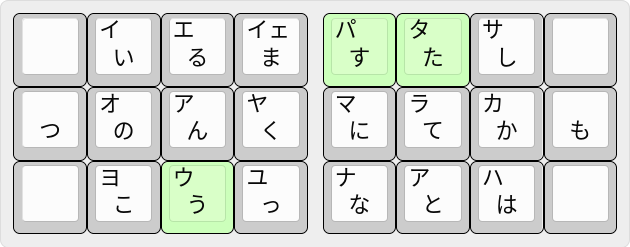
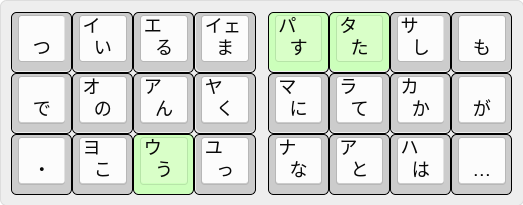
tyoki-chord 2nd version

diff --git a/layouts/_default/summary.html b/layouts/_default/summary.html
@@ -1,3 +1,4 @@
+{{ if not .Params.nolist }}
 <li>
 	{{ partial "list-breadcrumb.html" . }}
 	<h3><a href="{{ .RelPermalink }}">{{ .Title }}</a></h3>
@@ -12,3 +13,4 @@
 		{{ .Summary }}
 	{{ end }}
 </li>
+{{ end }}

diff --git a/layouts/_default/summary-in-leaf.html b/layouts/_default/summary-in-leaf.html
@@ -1,3 +1,4 @@
+{{ if not .Params.nolist }}
 <li>
 	<h3><a href="{{ .RelPermalink }}">{{ .Title }}</a></h3>
 	<p class="date">
@@ -11,3 +12,4 @@
 		{{ .Summary }}
 	{{ end }}
 </li>
+{{ end }}

diff --git a/content/computer/keyboard/layout/tyoki-chord.md b/content/computer/keyboard/layout/tyoki-chord.md
@@ -6,6 +6,7 @@ description = """
 date = 2020-10-09T16:36:02+09:00
 toc = true
 weight = 1
+lastmod = 2021-01-04T22:30:22+09:00
 +++
 <!--more-->
 
@@ -15,11 +16,11 @@ weight = 1
 よく打つかなは単打なので打鍵効率がよい。\
 そうでないかなは行段を組み合わせるので覚えやすく忘れにくい。\
 9割以上の入力を人差し指と中指で打つため疲れにくい。\
-小指を使わない。薬指を使わない選択もできる。
+小指を使わない。薬指もあまり使わない。
 
 濁音や外来音も法則性があり、覚えやすく忘れにくい。\
-濁音は中指で対応する段(母音)、人差し指でその隣のキーを同時押し。\
-外来音は中指で対応する行(子音)、人差し指でその隣のキーを同時押し。
+濁音は中指で対応する行(子音)、人差し指でその隣のキーを同時押し。\
+外来音は中指で対応する段(母音)、人差し指でその隣のキーを同時押し。
 
 拗音と外来音を1動作で打ててリズムがいい。
 
@@ -27,7 +28,7 @@ weight = 1
 
 よく出てくる二重母音は連続で打ちやすいように配置した。
 
-親指を文字入力に使わないので親指シフト系列の配列だと親指が痛くなる人にもおすすめ。
+親指を文字入力に使わないので親指シフト系の配列だと親指が痛くなる人にもおすすめ。
 
 ## 打鍵動画
 {{< youtube 3PRpr1XbUc0 >}}
@@ -81,8 +82,8 @@ weight = 1
 
 <div class="columns-2">
 <figure class="column">
-<figcaption>「で」</figcaption>
-<img src="de.png" />
+<figcaption>「だ」</figcaption>
+<img src="da.png" />
 </figure>
 <figure class="column">
 <figcaption>「ば」</figcaption>
@@ -130,11 +131,11 @@ PageUp/Downキーで変換候補のページ移動。\
 カタカナキーでカタカナに変換して確定。\
 句読点のあと変換せずに確定。
 
-かなの入力中以外は基本的にキーそのままを入力する。\
-かなの入力中以外でひらがなキーやカタカナキーを押すと、かな直接入力モードを切り替える。かな直接入力モードではひらがなやカタカナを確定された状態で入力する。かなに関する表を作るときなどに役に立つ。
+変換候補の表示中以外、上に挙げたキーは基本的にキーそのままを入力する。\
+変換候補の表示中以外でひらがなキーやカタカナキーを押すと、かな直接入力モードを切り替える。かな直接入力モードではひらがなやカタカナを確定された状態で入力する。かなに関する表を作るときなどに役に立つ。
 
 IMEの状態に合わせてキーボードの通知LEDを光らせることでIMEの状態が分からなくなることを防ぐ。\
-モーダルエディタ(Vimなど)と連携してIMEの自動切り替え。
+モーダルエディタ(Vimなど)と連携してIMEを自動で切り替える。
 
 ## アルファベット
 {{< figure src="tyoki.png" class="full" >}}
@@ -146,31 +147,56 @@ IMEの状態に合わせてキーボードの通知LEDを光らせることでIM
 
 アルファベットは26音。小指を使わない3段4列を両手で24キー。キーが足りない。数字はあまり使わないので端に追いやって、空いた最上段を利用する。はみ出たZQと記号、よく使う機能キーが候補。
 
-## 機能キー、数字
+## 数字、記号
+かな入力中の記号は英数入力に準ずる。\
+単打面にない記号は数字記号レイヤー(Enterを押しながら)にある。
+
+{{< figure src="num-sign.png" class="full" >}}
+
+シフトとレイヤーに記号が散らばっていると混乱するのでシフトで入力できるものもレイヤー側に用意してレイヤー側で入力するようにしている。
+
+レイヤーキーを押している手と同じ側で入力するのは難しく、レイヤーキーを左右切り替えながら入力するのも難しいので連続することが多い記号は同じ側にまとめている。
+
+- 同じ種類のかっこは人差し指と中指のアルペジオになるようにした
+- 「[, ]」は配列の添字として数字と一緒に使うことが多いので数字側
+- プログラミング言語で「=」と組み合わされることが多い記号を同じ側にまとめた
+
+覚えやすさのために関連性のあるものを近くにまとめている。
+
+- 「$, #, %」は数字と強い関連があるので数字側にまとめた
+- 「=, +, *」は算術演算子
+- 記号側の中段と下段は論理演算やビット演算
+- 「^, <, >」は形が似ている
+- 「!, ?, :, `」は句読点つながり
+- 「\\, `」はバックなんとか
+
+## 機能キー
 最上段と親指のキーの一部は修飾キーと役割を兼ねている。長押しすると各キー右上に書かれている修飾キーとなり、すぐ離すと各キー下に書かれたキーが押されたことになる。
 
-小指の2列(カーソル、数字など)と最下段の薬指(3と6)はホームポジションごと動かして人差し指と中指で打つ。これらの位置には、使うときには連続して使うことが多く、文字と行ったり来たりすることが少ないキーを置いている。レイヤーに高頻度のキーを置かないことに繋がり、親指の負担軽減になる。
+小指の2列(カーソルキー、マウスキーなど)はホームポジションごと動かして人差し指と中指で打つ。これらの位置には、使うときには連続して使うことが多く、文字と行ったり来たりすることが少ないキーを置いている。レイヤーに高頻度のキーを置かないことに繋がり、親指の負担軽減になる。
 
 BSとDelは長押しすることがあるので修飾キーと併用できない、連打することが多いので人差し指で打ちたい、カーソルキーと同時に使うことが多いのでその反対の手がいい、ということであの場所。
 
-左上の4つのキーはマウスのスクロール。\
-左親指の右上3つのキーはマウスのクリック。親指だと打ちにくいのでホームポジションごと動かして人差し指と中指で打つ。\
-マウスをクリックしたりスクロールすると手の甲が痛いので用意している。
+左上の4つのキーはマウスのスクロール。その下の3つのキーはマウスのクリック。マウスをクリックしたりスクロールすると手の甲が痛いので用意している。
 
-## 記号
-かな入力中の記号は英数入力に準ずる。\
-単打面にない記号はFnレイヤー(Enterを押しながら)にある。
+マウスはウェブブラウジングでよく使うので左下に「戻る」、「進む」、「更新」を用意した。
 
-{{< figure src="tyoki-fn.png" class="full" >}}
+ファンクションキーを数字と同じキーで入力するためFnレイヤーを用意した。あまり使うことのない機能キーもここに配置した。
 
-シフトとレイヤーに散らばっていると混乱するのでシフトで入力できるものもレイヤー側に用意してレイヤー側で入力するようにしている。
+{{< figure src="fn.png" class="full" >}}
 
-レイヤーキーを押している手と同じ側で入力するのは難しく、レイヤーキーを左右切り替えながら入力するのも難しいので連続することが多い記号は同じ側にまとめている。同じ種類のかっこは同じ側にまとめた。プログラミング言語で「=」と組み合わされることが多い記号を同じ側にまとめた。
+覚えやすさのためになるべく単打面と関連付けた
 
-少しでも覚えやすいように、論理演算子としてよく使われる記号(|, &)を「!」と同じ側に置いた。累乗としてよく使われる記号(^)、剰余としてよく使われる記号(%)を「+, *」と同じ側に置いた。
+- Pauseの頭文字P
+- PrintScreenはScreenshotの頭文字S
+- ScrollLockはマウスのスクロール
+- Appの機能は右クリックと似ている
+- かなをローマ字にした頭文字のK、その近くに日本語入力関連
+- 音量や輝度の増減を上下カーソルに
+- 音楽などマルチメディア系のキーを音量の近くに
 
 ## 実装例
-### [QMK Firmware][qmk firmware]
+### QMK Firmware
 
 [Ergodox EZでの実装例][qmk ergodox]
 
@@ -178,7 +204,8 @@ BSとDelは長押しすることがあるので修飾キーと併用できない
 1. [QMK Firmware][qmk firmware]本体をクローンする。
 1. qmk_firmware/layouts/community/ergodoxにディレクトリを作成する。
 1. 作ったディレクトリに[実装例][qmk ergodox]をクローンする。
-1. write.shを実行する。
+1. QMKのビルド環境を構築する。([公式ドキュメント](https://docs.qmk.fm/#/ja/newbs_getting_started?id=set-up-your-environment))
+1. ビルドしてキーボードに書き込む。([公式ドキュメント](https://docs.qmk.fm/#/ja/newbs_building_firmware?id=build-your-firmware))
 
 **改造して使う場合**
 1. [QMK Firmware][qmk firmware]本体をクローンする。
@@ -187,7 +214,8 @@ BSとDelは長押しすることがあるので修飾キーと併用できない
 1. rules.mkのSRCにkana.c, kana_chord.c, ime.c, util_user.cを追加する。
 1. my.hを参考にヘッダファイルを作成する。
 1. my.cを参考にkeymap.cを作成する。
-1. write.shを参考にしてビルド用のスクリプトを作って実行する。もしくは[公式ドキュメント](https://docs.qmk.fm/#/ja/newbs_getting_started?id=set-up-your-environment)を参考にして環境を構築する。
+1. QMKのビルド環境を構築する。([公式ドキュメント](https://docs.qmk.fm/#/ja/newbs_getting_started?id=set-up-your-environment))
+1. ビルドしてキーボードに書き込む。([公式ドキュメント](https://docs.qmk.fm/#/ja/newbs_building_firmware?id=build-your-firmware))
 
 ### 他の方法で実装された方へ
 [よろしければ連絡をください。](#comment)リンクを貼らせていただきます。
@@ -205,6 +233,10 @@ BSとDelは長押しすることがあるので修飾キーと併用できない
 アルファベットの配列を作成するのに[この文字頻度表][mayzner]を使わせていただきました。ありがとうございます。
 
 記号の配置を決めるのに[この文字頻度表][punctuation]を使わせていただきました。ありがとうございます。
+
+## 更新履歴
+- [第2版]({{< relref "tyoki-chord-v2.md" >}})
+- [初版]({{< relref "tyoki-chord-v1.md" >}})
 
 [qmk firmware]:https://github.com/qmk/qmk_firmware
 [qmk ergodox]:https://github.com/h-youhei/qmk_keymap

diff --git a/content/computer/keyboard/layout/tyoki-chord-v2.md b/content/computer/keyboard/layout/tyoki-chord-v2.md
@@ -1,0 +1,60 @@
++++
+title = "チョキコード第2版"
+description = """
+"""
+date = 2021-01-04T23:14:23+09:00
+toc = true
+draft = false
++++
+<!--more-->
+[チョキコードのメインページはこちら]({{< relref "tyoki-chord.md" >}})
+
+## 主な変更点
+- 数字をレイヤーに移動し、テンキー状に配置
+- それに伴い記号の配置を変更
+- ファンクションキーを数字と同じキーで入力するため新レイヤーを用意
+- 「が」と「で」を単打に移動
+- それに伴い「も」と「つ」、ひらがなキー、カタカナキーを移動
+- 「…」を追加
+- クリックを左端に移動
+- PageDown, PageUpを右端に移動
+- ウェブブラウジング用のショートカットをクリック周辺に追加
+
+## かな
+{{< figure src="tyoki-chord.png" class="full" >}}
+
+## アルファベット
+{{< figure src="tyoki.png" class="full" >}}
+
+## 数字、記号
+{{< figure src="num-sign.png" class="full" >}}
+
+レイヤーキーを押している手と同じ側で入力するのは難しく、レイヤーキーを左右切り替えながら入力するのも難しいので連続することが多い記号は同じ側にまとめている。
+
+- 同じ種類のかっこは人差し指と中指のアルペジオになるようにした
+- 「[, ]」は配列の添字として数字と一緒に使うことが多いので数字側
+- プログラミング言語で「=」と組み合わされることが多い記号を同じ側にまとめた
+
+覚えやすさのために関連性のあるものを近くにまとめている。
+
+- 「$, #, %」は数字と強い関連があるので数字側にまとめた
+- 「=, +, *」は算術演算子
+- 記号側の中段と下段は論理演算やビット演算
+- 「^, <, >」は形が似ている
+- 「!, ?, :, `」は句読点つながり
+- 「\\, `」はバックなんとか
+
+## Fn
+{{< figure src="fn.png" class="full" >}}
+
+覚えやすさのためになるべく単打面と関連付けた
+
+- Pauseの頭文字P
+- PrintScreenはScreenshotの頭文字S
+- ScrollLockはマウスのスクロール
+- Appの機能は右クリックと似ている
+- かなをローマ字にした頭文字のK、その近くに日本語入力関連
+- 音量や輝度の増減を上下カーソルに
+- 音楽などマルチメディア系のキーを音量の近くに
+
+[前の版へ]({{< relref "tyoki-chord-v1.md" >}})

diff --git a/content/computer/keyboard/layout/tyoki-chord-v1.md b/content/computer/keyboard/layout/tyoki-chord-v1.md
@@ -1,0 +1,26 @@
++++
+title = "チョキコード初版"
+description = """
+"""
+date = 2021-01-04T23:14:18+09:00
+toc = true
+nolist = true
+draft = false
++++
+<!--more-->
+[チョキコードのメインページはこちら]({{< relref "tyoki-chord.md" >}})
+
+## かな
+{{< figure src="tyoki-chord.png" class="full" >}}
+
+## アルファベット
+{{< figure src="tyoki.png" class="full" >}}
+
+## Fn、記号
+{{< figure src="tyoki-fn.png" class="full" >}}
+
+レイヤーキーを押している手と同じ側で入力するのは難しく、レイヤーキーを左右切り替えながら入力するのも難しいので連続することが多い記号は同じ側にまとめている。同じ種類のかっこは同じ側にまとめた。プログラミング言語で「=」と組み合わされることが多い記号を同じ側にまとめた。
+
+少しでも覚えやすいように、論理演算子としてよく使われる記号(|, &)を「!」と同じ側に置いた。累乗としてよく使われる記号(^)、剰余としてよく使われる記号(%)を「+, *」と同じ側に置いた。
+
+[次の版へ]({{< relref "tyoki-chord-v2.md" >}})
